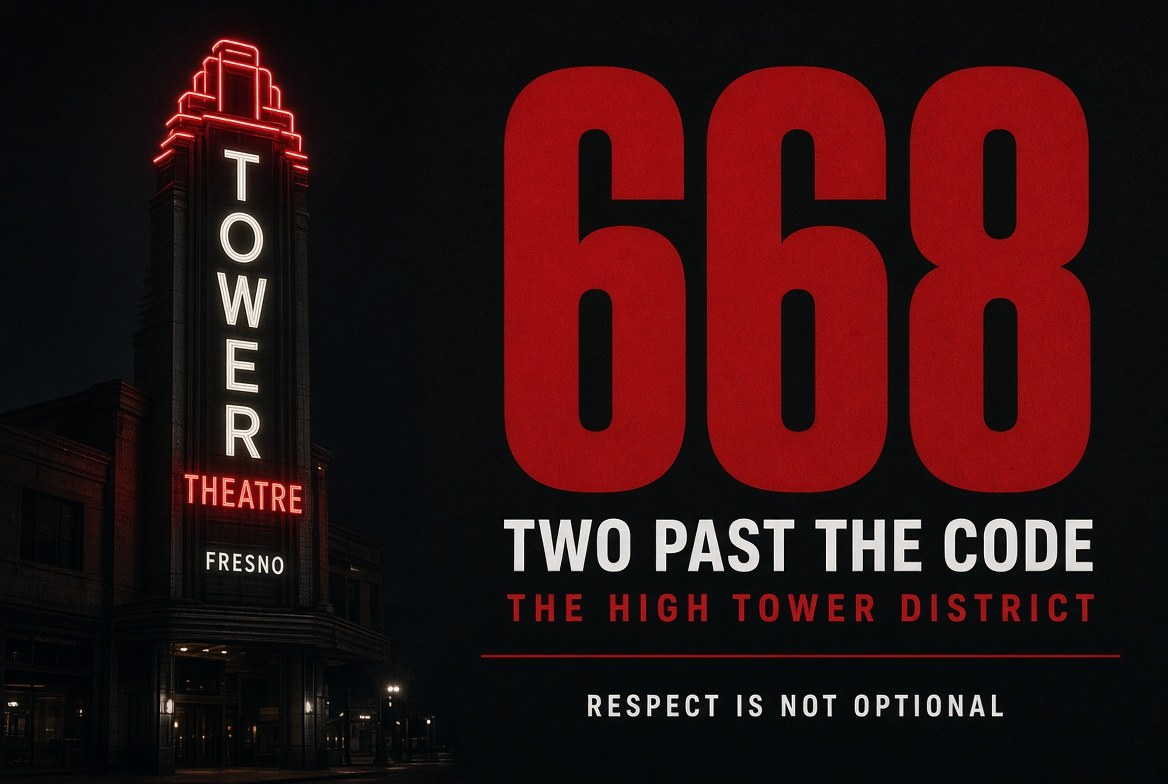
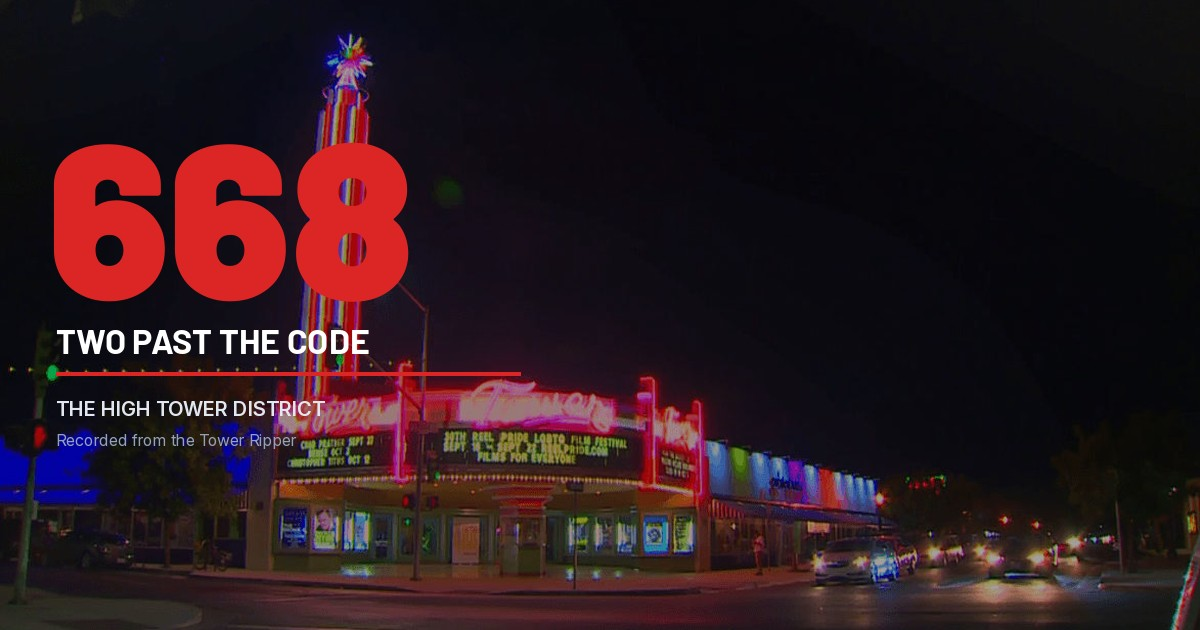
iSH

diff --git a/ht-668/index.html b/ht-668/index.html
@@ -4,7 +4,7 @@
   <meta charset="UTF-8" />
   <meta name="viewport" content="width=device-width, initial-scale=1" />
   <title>668 | THE HIGH TOWER DISTRICT</title>
-  <meta name="description" content="THE HIGH TOWER DISTRICT is 668 members. Two past the Rush 2049 code that flips the track mid-race. The cabinet wanted 666. The street tried to invert the map. The group kept the original line." />
+  <meta name="description" content="THE HIGH TOWER DISTRICT is 668 members. Two past the Rush 2049 code. The count was taken from the Tower Ripper, the custom build that took $750 in Profile Racing hubs from Todd Lyons and SE Bikes." />
   <link rel="preconnect" href="https://fonts.googleapis.com" />
   <link rel="preconnect" href="https://fonts.gstatic.com" crossorigin />
   <link href="https://fonts.googleapis.com/css2?family=Inter:wght@400;500;600;700&family=Playfair+Display:wght@600;700&display=swap" rel="stylesheet" />
@@ -12,17 +12,17 @@
   <meta property="og:type" content="article" />
   <meta property="og:site_name" content="THE HIGH TOWER DISTRICT" />
   <meta property="og:title" content="668 — Two Past the Code" />
-  <meta property="og:description" content="Public group. 668 members. Two seats past the keypad that mirrors the world while your friend is still driving. Respect is not optional." />
+  <meta property="og:description" content="Public group. 668 members. Recorded from the Tower Ripper. Two seats past the keypad that mirrors the world mid-race." />
   <meta property="og:url" content="https://stories.ahightower.com/ht-668/" />
-  <meta property="og:image" content="https://stories.ahightower.com/ht-668/images/og-card.jpg" />
-  <meta property="og:image:secure_url" content="https://stories.ahightower.com/ht-668/images/og-card.jpg" />
+  <meta property="og:image" content="https://stories.ahightower.com/ht-668/images/og-668.jpg" />
+  <meta property="og:image:secure_url" content="https://stories.ahightower.com/ht-668/images/og-668.jpg" />
   <meta property="og:image:width" content="1200" />
   <meta property="og:image:height" content="630" />
-  <meta property="og:image:alt" content="668 TWO PAST THE CODE. THE HIGH TOWER DISTRICT. Respect is not optional." />
+  <meta property="og:image:alt" content="Real Tower Theatre neon at Wishon and Olive. 668. Two past the code. THE HIGH TOWER DISTRICT. Tower Ripper." />
   <meta name="twitter:card" content="summary_large_image" />
   <meta name="twitter:title" content="668 — Two Past the Code" />
-  <meta name="twitter:description" content="The cabinet wanted 666. The group is 668. Two extra people who did not take the inverted track." />
-  <meta name="twitter:image" content="https://stories.ahightower.com/ht-668/images/og-card.jpg" />
+  <meta name="twitter:description" content="The cabinet wanted 666. The group is 668. The admin was on the Tower Ripper." />
+  <meta name="twitter:image" content="https://stories.ahightower.com/ht-668/images/og-668.jpg" />
   <style>
     body { font-family: Inter, system-ui, sans-serif; }
     h1, h2, h3 { font-family: "Playfair Display", Georgia, serif; }
@@ -39,55 +39,63 @@
   <header class="bg-slate-900 text-white">
     <div class="max-w-3xl mx-auto px-4 pt-10 pb-8">
       <p class="text-xs uppercase tracking-widest text-red-400 mb-3">Civic record · 4 September 2026</p>
-      <h1 class="text-5xl md:text-6xl leading-tight mb-4">668</h1>
-      <p class="text-lg text-slate-300 max-w-2xl">Two past the code. Public group. Same day the 666# story went up. The number on the keypad was a warning. The number on the group is a count of people who stayed on the original track.</p>
+      <h1 class="text-5xl md:text-5xl leading-tight mb-4">668</h1>
+      <p class="text-lg text-slate-300 max-w-2xl">Two past the code. Public group. Same day the 666# story went up. The number was not taken on foot from Fulton to Van Ness. It was taken from the saddle of the Tower Ripper.</p>
     </div>
   </header>
 
   <main class="max-w-3xl mx-auto px-4 py-10 space-y-12">
 
     <figure>
-      <img src="images/og-card.jpg" alt="668 two past the code civic card" class="w-full rounded-lg shadow" />
-      <figcaption class="text-sm text-slate-500 mt-2">668. Two past the code. THE HIGH TOWER DISTRICT. Respect is not optional.</figcaption>
+      <img src="images/og-668.jpg" alt="Real Tower Theatre neon at night with 668 type overlaid" class="w-full rounded-lg shadow" />
+      <figcaption class="text-sm text-slate-500 mt-2">Wishon and Olive. The actual building. Type added. No generated marquee, no invented architecture.</figcaption>
     </figure>
 
     <section>
       <h2 class="text-3xl mb-4">The counter</h2>
-      <p class="mb-4 leading-relaxed">At 5:04 p.m. on 4 September 2026 the public group read like this. THE HIGH TOWER DISTRICT. Public. 668 members. Invite. Manage. Featured. You. About. Photos. Events.</p>
-      <p class="mb-4 leading-relaxed">Twenty-two minutes earlier the administrator had posted the civic record for the walk from Fulton toward Van Ness. The link was stories.ahightower.com/rush-666. The card said 666#. Mirror the Track Mid-Race. PC 415. Battery of a kind man. Knives in the headband. Then the loaded question. Were you antagonizing?</p>
-      <p class="mb-4 leading-relaxed">The story and the membership number landed on the same afternoon. That is not branding. That is a timestamp.</p>
+      <p class="mb-4 leading-relaxed">At 5:04 p.m. on 4 September 2026 the public group read like this. THE HIGH TOWER DISTRICT. Public. 668 members.</p>
+      <p class="mb-4 leading-relaxed">Twenty-two minutes earlier the administrator posted the civic record for the downtown walk. The link was stories.ahightower.com/rush-666. The card said 666#. Mirror the Track Mid-Race. PC 415. Battery of a kind man. Knives in the headband. Then the loaded question.</p>
+      <p class="mb-4 leading-relaxed">The man who put hands on a kind stranger walked from Fulton toward Van Ness. The administrator who recorded after the contact was not on that walk. He was on the Tower Ripper.</p>
     </section>
 
     <figure>
-      <img src="images/group-668.jpg" alt="Facebook group header showing THE HIGH TOWER DISTRICT at 668 members" class="w-full rounded-lg shadow" />
-      <figcaption class="text-sm text-slate-500 mt-2">THE HIGH TOWER DISTRICT. Public. 668 members. 4 September 2026, 5:04 p.m. The 666# story is the featured post.</figcaption>
+      <img src="images/group-668.jpg" alt="Facebook group at 668 members, 5:04 p.m. September 4, 2026" class="w-full rounded-lg shadow" />
+      <figcaption class="text-sm text-slate-500 mt-2">THE HIGH TOWER DISTRICT. Public. 668 members. 4 September 2026, 5:04 p.m. Phone clock on the real group cover.</figcaption>
     </figure>
 
     <section>
+      <h2 class="text-3xl mb-4">The Tower Ripper</h2>
+      <p class="mb-4 leading-relaxed">The Tower Ripper is the custom plus-size build that already has its own record in this archive. In 2019 SE Bikes brand manager Todd Lyons shipped $750 retail of Profile Racing hubs to 721 E La Sierra Dr. Front hub $250. Rear hub $500. Awarded for a fully custom Beastmode-platform bike built in the Tower District. The hubs are still on the bike.</p>
+      <p class="mb-4 leading-relaxed">Chrome frame. HIGHTOWER and Tower District branding laid down by Driftwell / Jeremy. Single-bungee JBL mount that does not slip under real local riding. Controlled sidewalk wheelies on these blocks since 2019. That is the OG record, not a speech from a councilman about bike lanes destroying streets.</p>
+      <p class="mb-4 leading-relaxed">The full parts record, the shipping confirmation, the SE Bikes post, and the RRD Blocks frame are already published.</p>
+      <p class="mb-4 leading-relaxed"><a class="text-blue-800 underline font-medium" href="https://stories.ahightower.com/td-wheelie/">The OG Record · $750 Profile Racing hubs</a></p>
+    </section>
+
+    <section>
       <h2 class="text-3xl mb-4">What 666 was</h2>
-      <p class="mb-4 leading-relaxed">On a San Francisco Rush 2049 sit-down cabinet, 666# is the mid-race code that mirrors the entire track while another man is still driving. Left becomes right. The line he paid a coin to learn is now a lie. He has not crashed. The world just flipped under his hands.</p>
-      <p class="mb-4 leading-relaxed">That is programmed sadism. Not gore. Not a kill screen. Just the quiet decision to invert another man's map without asking.</p>
-      <p class="mb-4 leading-relaxed">The street version arrived the same week. A kind man was hit on a public walk. The camera came out after the contact, for identity, in daylight, on civic concrete. Then came the flip. You cannot record me. Then the loaded question inside the group. Were you antagonizing?</p>
+      <p class="mb-4 leading-relaxed">On a San Francisco Rush 2049 sit-down cabinet, 666# mirrors the entire track while another man is still driving. Left becomes right. The line he paid a coin to learn is now a lie. He has not crashed. The world just flipped under his hands.</p>
+      <p class="mb-4 leading-relaxed">That is programmed sadism. Not gore. Just the quiet decision to invert another man's map without asking.</p>
+      <p class="mb-4 leading-relaxed">The street version is in the 666# story. A kind man was hit on a public walk. The camera came out after the contact, for identity, in daylight. Then the flip. You cannot record me. Then the loaded question inside the group. Were you antagonizing?</p>
       <p class="mb-4 leading-relaxed">Flip the map. Make the reporter the subject. Make the predator the aggrieved party. 666# for civic life.</p>
+      <p class="mb-4 leading-relaxed"><a class="text-blue-800 underline font-medium" href="https://stories.ahightower.com/rush-666/">666# — Mirror the Track Mid-Race</a></p>
     </section>
 
     <figure>
-      <img src="images/tower-668.jpg" alt="Tower Theatre at dusk with marquee reading HIGH TOWER DISTRICT 668 MEMBERS" class="w-full rounded-lg shadow" />
-      <figcaption class="text-sm text-slate-500 mt-2">Wishon and Olive. The tower that named the district. The count on the marquee is the count in the group.</figcaption>
+      <img src="images/tower-night.jpg" alt="Tower Theatre neon at Wishon and Olive, real night photograph" class="w-full rounded-lg shadow" />
+      <figcaption class="text-sm text-slate-500 mt-2">The tower that named the district. File photograph of the real corner. Not a generated building.</figcaption>
     </figure>
 
     <section>
       <h2 class="text-3xl mb-4">Two extra seats</h2>
-      <p class="mb-4 leading-relaxed">666 would have been a clean omen. Easy to post. Easy to joke about. Easy to let the number do the talking so nobody has to.</p>
+      <p class="mb-4 leading-relaxed">666 would have been a clean omen. Easy to post. Easy to let the number do the talking.</p>
       <p class="mb-4 leading-relaxed">The group did not stop on the omen. It went to 668.</p>
-      <p class="mb-4 leading-relaxed">Two extra people. Two extra accounts that joined after the inverted-track number. Two extra pairs of eyes that did not need the map flipped in order to stay.</p>
-      <p class="mb-4 leading-relaxed">A public crime-watch group in the Tower District is not a concert count. It is not a merch drop. It is 668 people who can see a sidewalk, a loaded question, and a rule that says respect is not optional.</p>
-      <p class="mb-4 leading-relaxed">The two extra seats are the point. The code wanted the world mirrored. The membership kept the original line.</p>
+      <p class="mb-4 leading-relaxed">Two extra people after the inverted-track number. Two extra accounts that joined a public crime-watch room in ZIP 93728 and did not need the map flipped in order to stay.</p>
+      <p class="mb-4 leading-relaxed">A membership count next to a battery story is not a party hat. It is proof the room did not empty when the map tried to flip. The two extra seats are the point. The code wanted the world mirrored. The membership kept the original line.</p>
     </section>
 
     <section>
       <h2 class="text-3xl mb-4">What this group actually is</h2>
-      <p class="mb-4 leading-relaxed">THE HIGH TOWER DISTRICT is a public Facebook group for the streets around the Tower Theatre, ZIP 93728, and the people who live, work, walk, and record here.</p>
+      <p class="mb-4 leading-relaxed">THE HIGH TOWER DISTRICT is a public Facebook group for the streets around the Tower Theatre and the people who live, work, ride, walk, and record here.</p>
       <ul class="list-disc pl-5 space-y-2 mb-4 leading-relaxed">
         <li>Bands, bikes, eateries, porches, alleys, and the civic record.</li>
         <li>Crime watch without turning the feed into a hunting license.</li>
@@ -95,20 +103,14 @@
         <li>No flipping the map on a witness.</li>
         <li>Admin rights exist so the group does not become the audience the sadist needs.</li>
       </ul>
-      <p class="mb-4 leading-relaxed">Six hundred members was the first public mark. The 600 celebration was a video. 668 is quieter and heavier. It arrived on the same day as a battery, a camera, a false claim about recording law, and a loaded question aimed at the administrator.</p>
-      <p class="mb-4 leading-relaxed">A milestone that shows up next to that record is not a party hat. It is proof the room did not empty when the map tried to flip.</p>
+      <p class="mb-4 leading-relaxed">Six hundred members was the first public mark. 668 arrived on the same day as a battery, a camera from a custom bike, a false claim about recording law, and a loaded question aimed at the administrator.</p>
     </section>
-
-    <figure>
-      <img src="images/tower-night.jpg" alt="Tower Theatre neon at night, Fresno" class="w-full rounded-lg shadow" />
-      <figcaption class="text-sm text-slate-500 mt-2">The neon that still holds the corner. The district was named for this building. The group was named for the work around it.</figcaption>
-    </figure>
 
     <section>
       <h2 class="text-3xl mb-4">The work at 668</h2>
-      <p class="mb-4 leading-relaxed">Document the predator. Name the fallacy when someone tries to flip the map. Keep the group clean. That is the work. It was the work at 80 members. It is the work at 668.</p>
-      <p class="mb-4 leading-relaxed">The next number will not be magic either. 700 will not baptize anyone. 1,000 will not make a loaded question honest. The count is only useful if the original track stays the original track.</p>
-      <p class="mb-4 leading-relaxed">If you just joined: read the 666# story first. Then look at the sidewalk you actually walk. Then decide whether you are here to keep orientation or to enjoy watching someone else lose it.</p>
+      <p class="mb-4 leading-relaxed">Document the predator. Name the fallacy when someone tries to flip the map. Keep the group clean. That is the work. It was the work at 80 members. It is the work at 668. It is the same work that put Profile Racing hubs on a Tower District bike in 2019 and kept them there.</p>
+      <p class="mb-4 leading-relaxed">The next number will not be magic. 700 will not baptize anyone. 1,000 will not make a loaded question honest. The count is only useful if the original track stays the original track.</p>
+      <p class="mb-4 leading-relaxed">If you just joined: read the 666# story. Read the Tower Ripper record. Then look at the sidewalk you actually use. Then decide whether you are here to keep orientation or to enjoy watching someone else lose it.</p>
       <p class="mb-4 leading-relaxed">This is not a request for applause. It is a boundary with a number on it.</p>
     </section>
 
@@ -128,6 +130,14 @@
           <dd class="font-medium">4 September 2026, 5:04 p.m. PDT</dd>
         </div>
         <div>
+          <dt class="uppercase tracking-wider text-slate-500 text-xs">Position</dt>
+          <dd class="font-medium">Tower Ripper, not on foot Fulton to Van Ness</dd>
+        </div>
+        <div>
+          <dt class="uppercase tracking-wider text-slate-500 text-xs">Bike record</dt>
+          <dd class="font-medium"><a class="text-blue-800 underline" href="https://stories.ahightower.com/td-wheelie/">td-wheelie · $750 Profile Racing hubs · Todd Lyons / SE Bikes 2019</a></dd>
+        </div>
+        <div>
           <dt class="uppercase tracking-wider text-slate-500 text-xs">Same-day story</dt>
           <dd class="font-medium"><a class="text-blue-800 underline" href="https://stories.ahightower.com/rush-666/">666# — Mirror the Track Mid-Race</a></dd>
         </div>
@@ -145,7 +155,7 @@
     <section>
       <h2 class="text-3xl mb-4">Close</h2>
       <p class="mb-4 leading-relaxed">The cabinet still takes 666#. Jenny still ends the session with no refund. The street still has no pound key that restores the man who just got hit.</p>
-      <p class="mb-4 leading-relaxed">668 means two people past that machine. Two people who joined a public room that records what happens on Fulton, on Van Ness, on Echo, on the porch at 721, and on the dais when the language starts to slip.</p>
+      <p class="mb-4 leading-relaxed">668 means two people past that machine. The admin who posted the number was on the same custom bike that already beat a parts contest on the record. The group that took the number did not take the inverted track.</p>
       <p class="mb-4 leading-relaxed">Keep the track. Do not hit the code on a neighbor who is still driving.</p>
       <p class="mb-4 leading-relaxed">Within the Lord Jesus Christ. Amen.</p>
     </section>
@@ -156,7 +166,7 @@
     <div class="max-w-3xl mx-auto px-4 py-8">
       <p class="text-white font-semibold mb-1">THE HIGH TOWER DISTRICT</p>
       <p class="mb-3">Stories · Tower District, Fresno · stories.ahightower.com</p>
-      <p><a class="underline text-slate-300" href="https://stories.ahightower.com/">All stories</a> · <a class="underline text-slate-300" href="https://stories.ahightower.com/rush-666/">666#</a></p>
+      <p><a class="underline text-slate-300" href="https://stories.ahightower.com/">All stories</a> · <a class="underline text-slate-300" href="https://stories.ahightower.com/rush-666/">666#</a> · <a class="underline text-slate-300" href="https://stories.ahightower.com/td-wheelie/">Tower Ripper</a></p>
     </div>
   </footer>
 </body>
